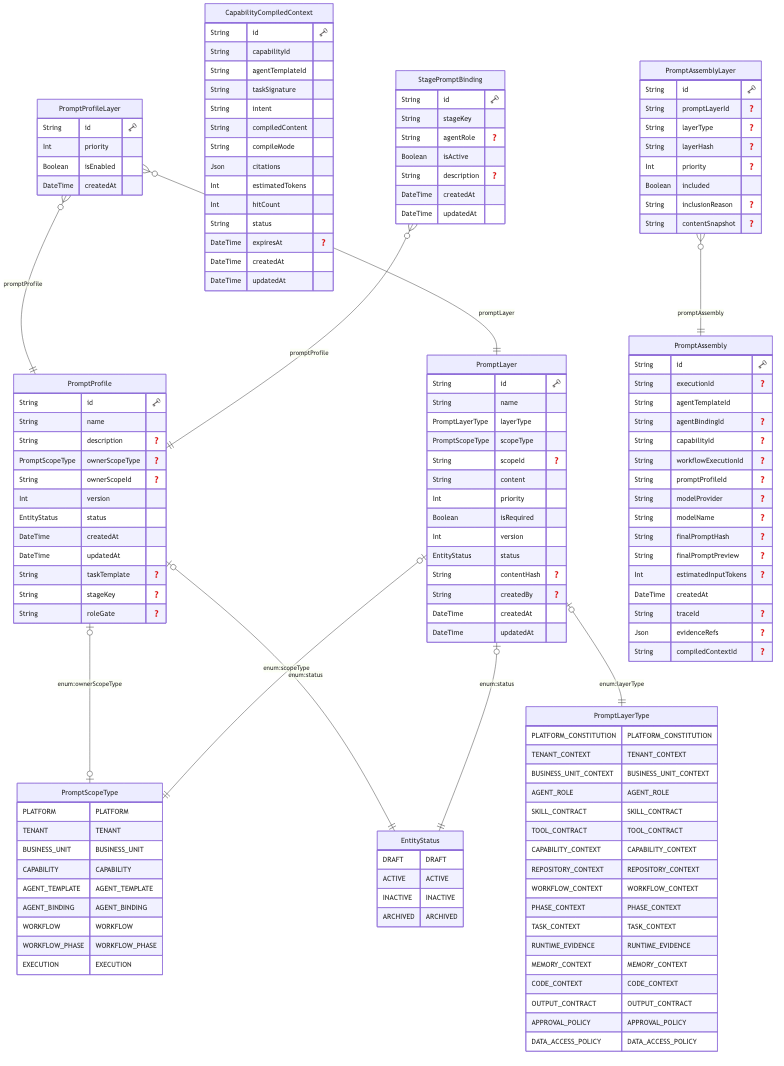
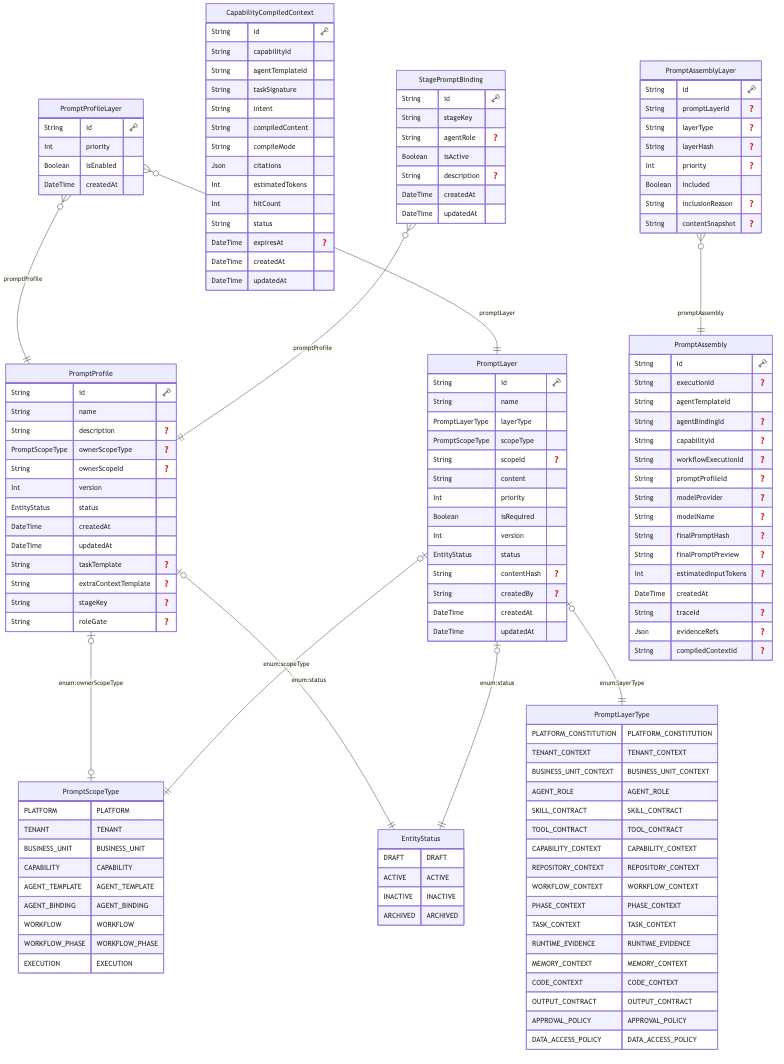
M36.6: close per-execution extraContext drift in workbench loop runner
Ties off the remaining hardcoded prompt in workgraph-api/blueprint.router.ts.
The per-execution `extraContext` block (developer AST tool guidance with
embedded {{sourceType}}/{{sourceUri}}/{{sourceRef}}) was the last inline
prompt left after M36.2. Now it's a Mustache template in the bound
PromptProfile, rendered with the same vars as taskTemplate.

## Changes

### Schema additions
- PromptProfile.extraContextTemplate (String?, optional)

### Composer endpoint
- ResolveStageResult gains `extraContext: string` field (empty when the
  bound profile has no extraContextTemplate)
- Service renders extraContextTemplate with same vars as taskTemplate

### Seed
- loopDeveloperExtraContext  → LOOP_DEVELOPER profile.extraContextTemplate
  (carries the "write_file/apply_patch/git_commit/finish_work_branch"
   guidance + {{sourceType}} {{sourceUri}}{{sourceRefSuffix}} substitution)
- loopDefaultExtraContext    → LOOP_DEFAULT + LOOP_QA profile.extraContextTemplate

### workgraph-api
- runLoopStageExecute() gains `extraContext: string` parameter
- caller resolves via promptComposerClient.resolveStage()
- ~10 lines of inline policy text removed (the ternary + 5 dash bullets +
  embedded source-uri interpolation)
- buildLoopStageVars() adds {sourceType, sourceUri, sourceRef, sourceRefSuffix}
  to the var dict the template consumes

### isDeveloperStage left alone
Still drives run_context branch/source wiring + allow_autonomous_mutation
[…]

diff --git a/workgraph-studio/apps/api/src/modules/blueprint/blueprint.router.ts b/workgraph-studio/apps/api/src/modules/blueprint/blueprint.router.ts
@@ -1581,10 +1581,10 @@ async function runLoopStage(sessionId: string, stageKey: string, actorId: string
   if (!agentTemplateId) {
     throw new ValidationError(`Stage ${stage.label} needs an agent template before it can run`)
   }
-  // M36.2 — Resolve the loop-stage task body + system-prompt fragment from
-  // prompt-composer. Replaces inline loopStageTask + loopStageSystemPrompt.
-  // The Mustache template lives in StagePromptBinding (stageKey="loop.stage",
-  // optionally narrowed by agentRole). Edit via seed.ts, re-seed — no redeploy.
+  // M36.2 / M36.6 — Resolve the loop-stage task body, system-prompt fragment,
+  // AND per-execution extraContext from prompt-composer. Replaces inline
+  // loopStageTask + loopStageSystemPrompt + the developer/non-developer
+  // extraContext block. All three live in StagePromptBinding now.
   const stageVars = buildLoopStageVars(session, stage, state)
   const resolvedStage = await promptComposerClient.resolveStage({
     stageKey: 'loop.stage',
@@ -1593,6 +1593,7 @@ async function runLoopStage(sessionId: string, stageKey: string, actorId: string
   })
   const task = resolvedStage.task
   const stageSystemPromptAppend = resolvedStage.systemPromptAppend
+  const stageExtraContext = resolvedStage.extraContext
   const inputSignature = buildStageInputSignature(snapshot, stage, agentTemplateId, task, state)
   const reusable = state.executionConfig?.reuseUnchangedAttempt === false ? undefined : [...priorAttempts].reverse().find(attempt =>
       attempt.inputSignature === inputSignature &&
@@ -1669,7 +1670,7 @@ async function runLoopStage(sessionId: string, stageKey: string, actorId: string
   })
 
   try {
-    const result = await runLoopStageExecute(session, snapshot, stage, attempt, task, stageSystemPromptAppend)
+    const result = await runLoopStageExecute(session, snapshot, stage, attempt, task, stageSystemPromptAppend, stageExtraContext)
     await recordBlueprintBudgetUsage(session, result, stage.key, readLoopState(session).workflowNodeId)
     const completedAt = new Date().toISOString()
     const gateRecommendation = buildGateRecommendation(result, stage)
@@ -2064,6 +2065,8 @@ async function runLoopStageExecute(
   task: string,
   // M36.2 — resolved by caller from prompt-composer (was: loopStageSystemPrompt(stage))
   systemPromptAppend: string,
+  // M36.6 — resolved by caller from prompt-composer (was: inline isDeveloperStage ternary)
+  extraContext: string,
 ): Promise<ExecuteResponse> {
   const traceId = `blueprint-${session.id}-${stage.key}`
   const executionConfig = readLoopState(session).executionConfig
@@ -2114,21 +2117,12 @@ async function runLoopStageExecute(
       },
     ],
     overrides: {
-      // M36.2 — systemPromptAppend resolved by caller via prompt-composer
-      // /api/v1/stage-prompts/resolve. extraContext below is per-execution
-      // dynamic (session.sourceUri etc.) and stays as-is for now; if a future
-      // milestone wants this in DB too, it becomes a separate template.
+      // M36.2 / M36.6 — both systemPromptAppend AND extraContext now resolved
+      // by the caller via prompt-composer /api/v1/stage-prompts/resolve.
+      // Edit the templates in prompt-composer/prisma/seed.ts (loopDeveloperTask,
+      // loopDeveloperExtraContext, etc.) and re-seed — no workgraph-api redeploy.
       systemPromptAppend,
-      extraContext: isDeveloperStage
-        ? [
-            'Developer stage execution policy:',
-            '- Prefer actual MCP local code tools over narrative-only output.',
-            '- First verify the writable MCP workspace matches the requested source/repository before mutating files.',
-            '- Use AST/search/read tools to locate the correct Java/source files, then use write_file/apply_patch/git_commit/finish_work_branch to create a real captured diff.',
-            '- Do not fabricate changed files or patch text. If the writable workspace is missing or does not match the source, say that no actual code change was captured.',
-            `Requested source: ${session.sourceType} ${session.sourceUri}${session.sourceRef ? ` @ ${session.sourceRef}` : ''}`,
-          ].join('\n')
-        : 'Produce governed workbench artifacts and evidence. Do not mutate source files unless this is the Developer stage with a verified writable MCP workspace.',
+      extraContext,
     },
     model_overrides: {
       ...(modelAlias ? { modelAlias } : {}),
@@ -2407,6 +2401,12 @@ function buildLoopStageVars(
     latestAccepted,
     capturedDecisions,
     sendBacks,
+    // M36.6 — source context vars consumed by loopDeveloperExtraContext template.
+    sourceType: session.sourceType,
+    sourceUri: session.sourceUri,
+    sourceRef: session.sourceRef ?? '',
+    // Helper for the "X @ Y" suffix without forcing the template to do conditionals.
+    sourceRefSuffix: session.sourceRef ? ` @ ${session.sourceRef}` : '',
   }
 }
 

diff --git a/agent-and-tools/apps/prompt-composer/prisma/seed.ts b/agent-and-tools/apps/prompt-composer/prisma/seed.ts
@@ -191,6 +191,22 @@ const loopQaTask = [
   "- Cite evidence references for every certification claim.",
 ].join("\n");
 
+// M36.6 — extraContext templates. These replace the inline `extraContext`
+// blocks in workgraph-api/blueprint.router.ts:2122-2131. Rendered with the
+// same {{vars}} as taskTemplate, so {{sourceType}}/{{sourceUri}}/{{sourceRef}}
+// substitute from the per-session values the caller passes.
+const loopDeveloperExtraContext = [
+  "Developer stage execution policy:",
+  "- Prefer actual MCP local code tools over narrative-only output.",
+  "- First verify the writable MCP workspace matches the requested source/repository before mutating files.",
+  "- Use AST/search/read tools to locate the correct source files, then use write_file/apply_patch/git_commit/finish_work_branch to create a real captured diff.",
+  "- Do not fabricate changed files or patch text. If the writable workspace is missing or does not match the source, say that no actual code change was captured.",
+  "Requested source: {{sourceType}} {{sourceUri}}{{sourceRefSuffix}}",
+].join("\n");
+
+const loopDefaultExtraContext =
+  "Produce governed workbench artifacts and evidence. Do not mutate source files unless this is the Developer stage with a verified writable MCP workspace.";
+
 function sha256(value: string): string {
   return `sha256:${createHash("sha256").update(value).digest("hex")}`;
 }
@@ -229,6 +245,9 @@ async function upsertStageProfile(input: {
   stageKey: string;
   roleGate: string | null;
   taskTemplate: string;
+  // M36.6 — optional per-execution context block, also Mustache-rendered
+  // with the same vars as taskTemplate.
+  extraContextTemplate?: string;
   // Layers to link: at minimum the platform constitution + output contract.
   // Optionally a role-specific AGENT_ROLE layer.
   roleLayerId?: string;
@@ -244,6 +263,7 @@ async function upsertStageProfile(input: {
       stageKey: input.stageKey,
       roleGate: input.roleGate,
       taskTemplate: input.taskTemplate,
+      extraContextTemplate: input.extraContextTemplate ?? null,
     },
     create: {
       id: input.id,
@@ -255,6 +275,7 @@ async function upsertStageProfile(input: {
       stageKey: input.stageKey,
       roleGate: input.roleGate,
       taskTemplate: input.taskTemplate,
+      extraContextTemplate: input.extraContextTemplate ?? null,
     },
   });
   await linkLayer(input.id, IDS.layers.platformConstitution, 10);
@@ -403,6 +424,7 @@ async function main() {
     stageKey: "loop.stage",
     roleGate: null,
     taskTemplate: loopDefaultTask,
+    extraContextTemplate: loopDefaultExtraContext,
   });
   await upsertStageProfile({
     id: IDS.stageProfiles.LOOP_DEVELOPER,
@@ -411,6 +433,7 @@ async function main() {
     stageKey: "loop.stage",
     roleGate: "DEVELOPER",
     taskTemplate: loopDeveloperTask,
+    extraContextTemplate: loopDeveloperExtraContext,
     roleLayerId: IDS.layers.role.DEVELOPER,
   });
   await upsertStageProfile({
@@ -420,6 +443,7 @@ async function main() {
     stageKey: "loop.stage",
     roleGate: "QA",
     taskTemplate: loopQaTask,
+    extraContextTemplate: loopDefaultExtraContext,
     roleLayerId: IDS.layers.role.QA,
   });
 

diff --git a/agent-and-tools/apps/prompt-composer/src/modules/stage-prompts/stage-prompts.service.ts b/agent-and-tools/apps/prompt-composer/src/modules/stage-prompts/stage-prompts.service.ts
@@ -104,12 +104,27 @@ export const stagePromptsService = {
       task = rendered.rendered;
     }
 
-    // 2. Assemble the system-prompt fragment.
+    // 2. M36.6 — Render the extraContext template too (used by the workbench
+    //    loop runner so the per-execution policy block is also DB-owned).
+    let extraContext = "";
+    if (profile.extraContextTemplate && profile.extraContextTemplate.trim().length > 0) {
+      const rendered = renderMustache(profile.extraContextTemplate, ctx);
+      if (rendered.warnings.length > 0) {
+        logger.debug(
+          { stageKey: input.stageKey, agentRole: input.agentRole, unresolved: rendered.warnings },
+          "[stage-prompts] extraContext template has unresolved Mustache vars",
+        );
+      }
+      extraContext = rendered.rendered;
+    }
+
+    // 3. Assemble the system-prompt fragment.
     const systemPromptAppend = await loadSystemPromptFragment(binding.promptProfileId);
 
     return {
       task,
       systemPromptAppend,
+      extraContext,
       promptProfileId: binding.promptProfileId,
       bindingId: binding.id,
       stageKey: binding.stageKey,

diff --git a/agent-and-tools/apps/prompt-composer/src/modules/stage-prompts/stage-prompts.schemas.ts b/agent-and-tools/apps/prompt-composer/src/modules/stage-prompts/stage-prompts.schemas.ts
@@ -28,6 +28,13 @@ export interface ResolveStageResult {
   task: string;
   /** Pre-assembled system-prompt fragment — pass as `overrides.systemPromptAppend`. */
   systemPromptAppend: string;
+  /**
+   * M36.6 — Rendered extraContext (Mustache-substituted from
+   * PromptProfile.extraContextTemplate). Empty string when the bound profile
+   * has no template. Pass as `overrides.extraContext` to /compose so the
+   * per-execution dynamic policy block stays DB-owned.
+   */
+  extraContext: string;
   /** The resolved PromptProfile id, for traceability + downstream audit. */
   promptProfileId: string;
   /** The binding row that matched, for debugging. */

diff --git a/workgraph-studio/apps/api/src/lib/prompt-composer/client.ts b/workgraph-studio/apps/api/src/lib/prompt-composer/client.ts
@@ -121,6 +121,10 @@ export interface ResolveStageRequest {
 export interface ResolveStageResponse {
   task: string
   systemPromptAppend: string
+  // M36.6 — rendered extraContext (empty string if the bound profile has no
+  // extraContextTemplate). Workbench loop runner uses this so the
+  // per-execution policy block is also DB-owned.
+  extraContext: string
   promptProfileId: string
   bindingId: string
   stageKey: string

diff --git a/docs/data-model/03-prompt-composer-owned.md b/docs/data-model/03-prompt-composer-owned.md
@@ -55,6 +55,7 @@ DATA_ACCESS_POLICY DATA_ACCESS_POLICY
     DateTime createdAt 
     DateTime updatedAt 
     String taskTemplate "❓"
+    String extraContextTemplate "❓"
     String stageKey "❓"
     String roleGate "❓"
     }
